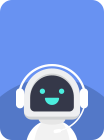
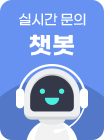
챗봇 마크업

Changed region(s): [[0.2596, 0.2286, 0.7212, 0.4], [0.1731, 0.0857, 0.5481, 0.2], [0.5769, 0.0857, 0.8365, 0.2]]

diff --git a/220518/css/pjy.css b/220518/css/pjy.css
@@ -94,4 +94,7 @@
 .mentoring_event_area .event .event_content ul li img {display: block; width: 100%; height: 300px; border-radius: 11px; object-fit: cover; }
 
 /* 챗봇 */
+.btn_chatbot {background-image: url(/220518/images/close.png); background-repeat: no-repeat;}
+.chatbot_renewal {position: relative;}
 .chatbot_renewal img {position: absolute; right: 50%; margin-right: -734px; display: block; z-index: 9999; width: 104px; height: auto;}
+.chatbot_renewal button {position: absolute; width: 25px; height: 25px; bottom: 5px; right: 216px;}

diff --git a/index.html b/index.html
@@ -310,8 +310,9 @@ var schoolType = '/High';
 				</a>
 				<button class="btn_chatbot"></button>
 			</li>
-			
 		</ul>
+		<!-- //챗봇 -->
+
 		<!-- 메인 배너 -->
 		<div class="main_banner_area">
 			<div class="inner">
